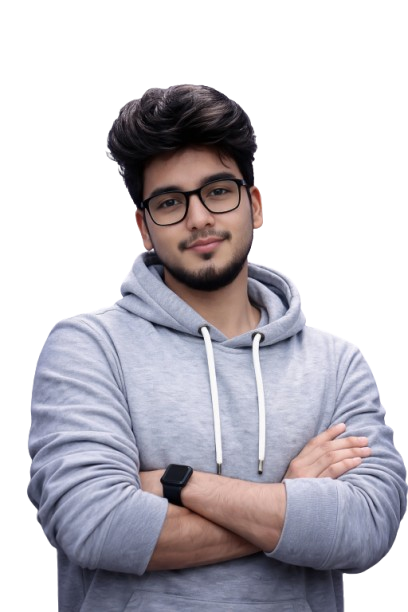
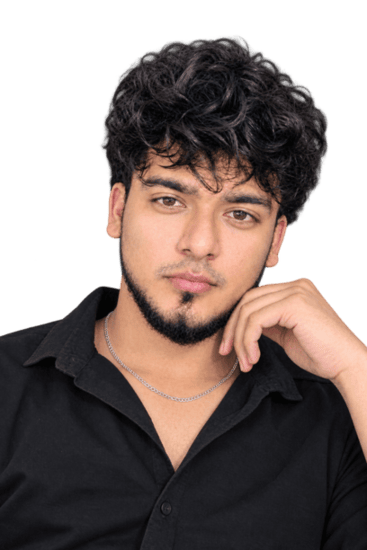
Merge portfolio changes

diff --git a/src/components/sections/Experience.jsx b/src/components/sections/Experience.jsx
@@ -2,27 +2,14 @@ import React, { useRef } from "react";
 import { motion, useScroll, useTransform } from "framer-motion";
 
 const EXPERIENCE_DATA = [
-    // {
-    //     id: 1,
-    //     role: "Full Stack Developer",
-    //     company: "Self Employed",
-    //     period: "Oct 2025 – Present",
-    //     current: true,
-    //     description: [
-    //         "Developed web applications and websites using PHP, HTML, CSS, and JavaScript for company and client projects",
-    //         "Built an ID Card Generator system and multiple business websites including Trades and Denmark Granit platforms"
-    //     ],
 
-    //     skills: ["HTML5", "CSS3", "JavaScript", "PHP", "Excel/CSV Processing"],
-    //     impact: "Contributed to production-ready web applications"
-    // }
-    ,
     {
         id: 1,
         role: "Software Engineer",
         company: "Bezohminds",
-        period: "Dec 2024 – Present",
-        current: true,
+        period: "Dec 2024 – Aug 2025",
+93
+: true,
         description: [
             "Independently handled end-to-end front-end development for internal enterprise web applications",
             "Built modular and scalable UI systems using HTML5, CSS3, SCSS, JavaScript (ES6), and Handlebars.js",
